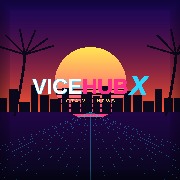
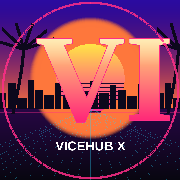
Identité de marque GTA VI : chiffre VI glossy, flamant néon, profil rond + story 9:16
Logo et réseaux repensés « plus GTA VI » :
- Chiffre romain VI en dégradé glossy jaune→magenta (signature GTA VI)
- Wordmark VICEHUB X en dégradé néon, flamant rose, soleil rétro, grille, palmiers
- Nouveaux assets : logo-square (post), logo-profile (avatar rond IG/TikTok),
  fb-cover (bannière Facebook), story-9x16 (TikTok/Stories), favicon VI (SVG+PNG)
- gen-brand.php : dégradé de texte (gloss), flamant, halo, masque circulaire

Claude-Session: https://claude.ai/code/session_01AwoqAARGkV3nyscAH2TsPk

diff --git a/scripts/gen-brand.php b/scripts/gen-brand.php
@@ -1,7 +1,8 @@
 <?php
 /**
- * ViceHub X — Générateur d'identité de marque (logo, réseaux, favicon) via GD.
- * Produit des PNG nets, sans dépendance réseau, dans public/assets/img/.
+ * ViceHub X — Identité de marque « GTA VI » (logo, réseaux, favicon) via GD.
+ * Style : clé visuelle Vice City — soleil rétro, grille néon, palmiers, flamant,
+ * chiffre romain VI glossy et wordmark en dégradé rose→jaune (signature GTA VI).
  *   Usage : php scripts/gen-brand.php
  */
 $ROOT = dirname(__DIR__);
@@ -11,197 +12,203 @@ $BRAND = $IMG . '/brand';
 
 $FONT  = '/usr/share/fonts/truetype/liberation/LiberationSans-Bold.ttf';
 $FONTI = '/usr/share/fonts/truetype/liberation/LiberationSans-BoldItalic.ttf';
-if (!is_file($FONT)) { $FONT = '/usr/share/fonts/truetype/dejavu/DejaVuSans-Bold.ttf'; }
+if (!is_file($FONT))  { $FONT  = '/usr/share/fonts/truetype/dejavu/DejaVuSans-Bold.ttf'; }
 if (!is_file($FONTI)) { $FONTI = $FONT; }
 
-function col($im, $r, $g, $b, $a = 0) { return imagecolorallocatealpha($im, $r, $g, $b, $a); }
+function col($im,$r,$g,$b,$a=0){ return imagecolorallocatealpha($im,(int)$r,(int)$g,(int)$b,(int)$a); }
+function clampi($v,$lo,$hi){ return max($lo,min($hi,$v)); }
 
-/** Dégradé vertical du ciel + sol. */
-function sky($im, $w, $h, $horizon) {
-    for ($y = 0; $y < $horizon; $y++) {
-        $t = $y / max(1, $horizon);
-        $r = (int)(26 + (255 - 26) * pow($t, 1.5));
-        $g = (int)(8 + (90 - 8) * pow($t, 2.2));
-        $b = (int)(48 + (90 - 48) * (1 - $t));
-        imagefilledrectangle($im, 0, $y, $w, $y, col($im, $r, min(255,$g), $b));
+/* Ciel GTA VI : violet profond -> magenta -> orange. */
+function sky($im,$w,$h,$horizon){
+    for($y=0;$y<$horizon;$y++){
+        $t=$y/max(1,$horizon);
+        $r=43+(255-43)*pow($t,1.6); $g=11+(120-11)*pow($t,2.3); $b=63+(70-63)*(1-$t)+ (90)*(1-$t);
+        imagefilledrectangle($im,0,$y,$w,$y,col($im,clampi($r,0,255),clampi($g,0,255),clampi($b,0,255)));
     }
-    for ($y = $horizon; $y < $h; $y++) {
-        $t = ($y - $horizon) / max(1, $h - $horizon);
-        $r = (int)(26 * (1 - $t) + 7);
-        $b = (int)(46 * (1 - $t) + 15);
-        imagefilledrectangle($im, 0, $y, $w, $y, col($im, $r, 6, $b + 10));
+    for($y=$horizon;$y<$h;$y++){
+        $t=($y-$horizon)/max(1,$h-$horizon);
+        imagefilledrectangle($im,0,$y,$w,$y,col($im,(int)(30*(1-$t)+8),6,(int)(52*(1-$t)+16)));
     }
 }
-
-/** Soleil rétro avec bandes. */
-function retroSun($im, $cx, $cy, $R) {
-    for ($y = -$R; $y <= $R; $y++) {
-        $t = ($y + $R) / (2 * $R);
-        $r = (int)(255);
-        $g = (int)(230 * (1 - $t) + 50 * $t);
-        $b = (int)(80 * (1 - $t) + 136 * $t);
-        $half = (int) sqrt(max(0, $R * $R - $y * $y));
-        imagefilledrectangle($im, $cx - $half, $cy + $y, $cx + $half, $cy + $y, col($im, $r, $g, $b));
+/* Soleil rétro à bandes (jaune -> magenta). */
+function retroSun($im,$cx,$cy,$R){
+    for($y=-$R;$y<=$R;$y++){
+        $t=($y+$R)/(2*$R);
+        $r=255; $g=230*(1-$t)+40*$t; $b=70*(1-$t)+150*$t;
+        $half=(int)sqrt(max(0,$R*$R-$y*$y));
+        imagefilledrectangle($im,$cx-$half,$cy+$y,$cx+$half,$cy+$y,col($im,$r,$g,$b));
     }
-    // bandes sombres dans la moitié basse
-    for ($i = 0; $i < 7; $i++) {
-        $by = $cy + (int)($R * 0.16) + $i * (int)($R * 0.13);
-        $half = (int) sqrt(max(0, $R * $R - ($by - $cy) * ($by - $cy)));
-        imagefilledrectangle($im, $cx - $half, $by, $cx + $half, $by + max(2, (int)($R*0.03) + $i), col($im, 20, 8, 36));
+    for($i=0;$i<8;$i++){
+        $by=$cy+(int)($R*0.14)+$i*(int)($R*0.12);
+        $half=(int)sqrt(max(0,$R*$R-($by-$cy)*($by-$cy)));
+        imagefilledrectangle($im,$cx-$half,$by,$cx+$half,$by+max(2,(int)($R*0.025)+$i),col($im,28,8,46));
     }
 }
-
-/** Grille néon en perspective. */
-function neonGrid($im, $w, $h, $horizon, $pink, $cyan) {
-    for ($i = -12; $i <= 12; $i++) {
-        $x = $w / 2 + $i * ($w / 12);
-        imageline($im, (int)($w/2), $horizon, (int)$x, $h, $cyan);
-    }
-    $n = 10;
-    for ($i = 1; $i <= $n; $i++) {
-        $p = $i / $n;
-        $y = $horizon + (int)(pow($p, 2.2) * ($h - $horizon));
-        imageline($im, 0, $y, $w, $y, $pink);
-    }
+function neonGrid($im,$w,$h,$horizon,$pink,$cyan){
+    for($i=-14;$i<=14;$i++){ $x=$w/2+$i*($w/14); imageline($im,(int)($w/2),$horizon,(int)$x,$h,$cyan); }
+    for($i=1;$i<=11;$i++){ $p=$i/11; $y=$horizon+(int)(pow($p,2.2)*($h-$horizon)); imageline($im,0,$y,$w,$y,$pink); }
+}
+function skyline($im,$w,$h,$baseY,$dark){
+    $x=0; $seed=[0.5,0.85,0.35,0.95,0.6,0.45,0.85,0.4,0.7,0.55,0.92,0.5,0.78,0.6,0.4,0.82,0.5]; $i=0;
+    while($x<$w){ $bw=(int)($w*(0.035+($i%3)*0.011)); $bh=(int)($h*0.17*$seed[$i%count($seed)]);
+        imagefilledrectangle($im,$x,$baseY-$bh,$x+$bw-2,$baseY,$dark); $x+=$bw+(int)($w*0.006); $i++; }
+}
+function palm($im,$x,$y,$s,$dark){
+    $pts=[]; for($t=0;$t<=1;$t+=0.1){ $pts[]=[$x+(int)(sin($t*1.2)*$s*0.18),$y-(int)($t*$s)]; }
+    imagesetthickness($im,max(2,(int)($s*0.05)));
+    for($k=0;$k<count($pts)-1;$k++) imageline($im,$pts[$k][0],$pts[$k][1],$pts[$k+1][0],$pts[$k+1][1],$dark);
+    $top=end($pts);
+    foreach([200,228,256,286,316,338] as $a){ $rad=deg2rad($a);
+        $ex=$top[0]+(int)(cos($rad)*$s*0.5); $ey=$top[1]+(int)(sin($rad)*$s*0.42);
+        imageline($im,$top[0],$top[1],(int)$ex,(int)$ey,$dark); }
+    imagesetthickness($im,1);
+}
+/* Flamant néon stylisé (silhouette rose). */
+function flamingo($im,$cx,$cy,$s,$c){
+    imagesetthickness($im,max(3,(int)($s*0.06)));
+    // pattes
+    imageline($im,$cx-(int)($s*0.05),$cy+(int)($s*0.3),$cx-(int)($s*0.12),$cy+(int)($s*0.95),$c);
+    imageline($im,$cx+(int)($s*0.05),$cy+(int)($s*0.3),$cx+(int)($s*0.10),$cy+(int)($s*0.95),$c);
+    // corps
+    imagefilledellipse($im,$cx,$cy+(int)($s*0.18),(int)($s*0.5),(int)($s*0.32),$c);
+    // cou en S
+    $neck=[[$cx-(int)($s*0.08),$cy+(int)($s*0.05)],[$cx-(int)($s*0.22),$cy-(int)($s*0.18)],
+           [$cx-(int)($s*0.05),$cy-(int)($s*0.42)],[$cx+(int)($s*0.16),$cy-(int)($s*0.52)]];
+    for($k=0;$k<count($neck)-1;$k++) imageline($im,$neck[$k][0],$neck[$k][1],$neck[$k+1][0],$neck[$k+1][1],$c);
+    // tête + bec
+    imagefilledellipse($im,$cx+(int)($s*0.18),$cy-(int)($s*0.54),(int)($s*0.14),(int)($s*0.12),$c);
+    imagefilledpolygon($im,[$cx+(int)($s*0.26),$cy-(int)($s*0.56),$cx+(int)($s*0.42),$cy-(int)($s*0.46),$cx+(int)($s*0.27),$cy-(int)($s*0.48)],$c);
+    imagesetthickness($im,1);
+}
+/* Halo lumineux radial. */
+function glow($im,$cx,$cy,$R,$r,$g,$b){
+    for($i=$R;$i>0;$i-=2){ $a=clampi(118-(int)(($R-$i)*0.9),60,126);
+        imagefilledellipse($im,$cx,$cy,$i*2,$i*2,col($im,$r,$g,$b,$a)); }
 }
 
-/** Skyline silhouette. */
-function skyline($im, $w, $h, $baseY, $dark) {
-    $x = 0;
-    $seedH = [0.5,0.8,0.35,0.95,0.6,0.45,0.85,0.4,0.7,0.55,0.9,0.5,0.75,0.6,0.4,0.8,0.5];
-    $i = 0;
-    while ($x < $w) {
-        $bw = (int)($w * (0.04 + ($i % 3) * 0.012));
-        $bh = (int)($h * 0.16 * $seedH[$i % count($seedH)]);
-        imagefilledrectangle($im, $x, $baseY - $bh, $x + $bw - 2, $baseY, $dark);
-        // quelques fenêtres
-        $x += $bw + (int)($w * 0.006);
-        $i++;
-    }
-}
-
-/** Palmier silhouette simple. */
-function palm($im, $x, $y, $s, $dark) {
-    // tronc courbe
-    $pts = [];
-    for ($t = 0; $t <= 1; $t += 0.1) {
-        $px = $x + (int)(sin($t * 1.2) * $s * 0.18);
-        $py = $y - (int)($t * $s);
-        $pts[] = [$px, $py];
-    }
-    for ($k = 0; $k < count($pts) - 1; $k++) {
-        imagesetthickness($im, max(2, (int)($s * 0.045)));
-        imageline($im, $pts[$k][0], $pts[$k][1], $pts[$k+1][0], $pts[$k+1][1], $dark);
-    }
-    imagesetthickness($im, 1);
-    $top = end($pts);
-    // frondes
-    $angles = [200, 230, 260, 290, 320, 340];
-    foreach ($angles as $a) {
-        $rad = deg2rad($a);
-        $ex = $top[0] + (int)(cos($rad) * $s * 0.5);
-        $ey = $top[1] + (int)(sin($rad) * $s * 0.42);
-        $mx = ($top[0] + $ex) / 2 + (int)(cos($rad + 1.57) * $s * 0.08);
-        $my = ($top[1] + $ey) / 2 + (int)(sin($rad + 1.57) * $s * 0.08);
-        $poly = [$top[0], $top[1], (int)$mx, (int)$my, $ex, $ey];
-        imagesetthickness($im, max(2, (int)($s * 0.03)));
-        imageline($im, $top[0], $top[1], (int)$ex, (int)$ey, $dark);
-    }
-    imagesetthickness($im, 1);
-}
-
-/** Texte TTF avec halo néon. */
-function glowText($im, $font, $size, $x, $y, $text, $rgb, $glow) {
-    for ($i = 0; $i < 6; $i++) {
-        $a = 78 - $i * 8;
-        $g = imagecolorallocatealpha($im, $glow[0], $glow[1], $glow[2], max(40, $a));
-        foreach ([[-2,0],[2,0],[0,-2],[0,2],[2,2],[-2,-2]] as $o) {
-            imagettftext($im, $size, 0, $x + $o[0], $y + $o[1], $g, $font, $text);
+/* Texte rempli d'un dégradé vertical (gloss) + halo néon — signature GTA VI. */
+function gradientText($im,$font,$size,$x,$y,$text,$top,$bot,$glow){
+    $bbox=imagettfbbox($size,0,$font,$text);
+    $tw=abs($bbox[2]-$bbox[0]); $th=abs($bbox[7]-$bbox[1]); $pad=(int)($size*0.5);
+    $w=$tw+$pad*2; $h=$th+$pad*2;
+    // halo sur l'image principale
+    for($i=0;$i<6;$i++){ $g=col($im,$glow[0],$glow[1],$glow[2],clampi(86-$i*7,44,120));
+        foreach([[-3,0],[3,0],[0,-3],[0,3],[3,3],[-3,-3],[4,0],[0,4]] as $o)
+            imagettftext($im,$size,0,$x+$o[0],$y+$o[1],$g,$font,$text); }
+    // calque texte blanc (masque)
+    $layer=imagecreatetruecolor($w,$h); imagesavealpha($layer,true); imagealphablending($layer,false);
+    imagefilledrectangle($layer,0,0,$w,$h,col($layer,0,0,0,127)); imagealphablending($layer,true);
+    $baseY=$pad+$th;
+    imagettftext($layer,$size,0,$pad,$baseY,col($layer,255,255,255),$font,$text);
+    imagealphablending($im,true);
+    for($yy=0;$yy<$h;$yy++){
+        $t=clampi(($yy-$pad)/max(1,$th),0,1);
+        // gloss : éclaircit le tiers supérieur
+        $gl=$t<0.34?(1-$t/0.34)*0.5:0;
+        $r=$top[0]*(1-$t)+$bot[0]*$t; $g=$top[1]*(1-$t)+$bot[1]*$t; $b=$top[2]*(1-$t)+$bot[2]*$t;
+        $r=clampi($r+(255-$r)*$gl,0,255); $g=clampi($g+(255-$g)*$gl,0,255); $b=clampi($b+(255-$b)*$gl,0,255);
+        $dy=$y-$baseY+$yy; if($dy<0||$dy>=imagesy($im)) continue;
+        for($xx=0;$xx<$w;$xx++){
+            $a=(imagecolorat($layer,$xx,$yy)>>24)&0x7F;
+            if($a>=120) continue;
+            $dx=$x+$xx-$pad; if($dx<0||$dx>=imagesx($im)) continue;
+            $al=(127-$a)/127;
+            $ex=imagecolorat($im,$dx,$dy); $er=($ex>>16)&255; $eg=($ex>>8)&255; $eb=$ex&255;
+            imagesetpixel($im,$dx,$dy,col($im,$er*(1-$al)+$r*$al,$eg*(1-$al)+$g*$al,$eb*(1-$al)+$b*$al));
         }
     }
-    $c = imagecolorallocate($im, $rgb[0], $rgb[1], $rgb[2]);
-    imagettftext($im, $size, 0, $x, $y, $c, $font, $text);
-    return imagettfbbox($size, 0, $font, $text);
+    imagedestroy($layer);
+    return $tw;
 }
-function textW($size, $font, $text) { $b = imagettfbbox($size, 0, $font, $text); return abs($b[2] - $b[0]); }
+function textW($size,$font,$text){ $b=imagettfbbox($size,0,$font,$text); return abs($b[2]-$b[0]); }
 
-/** Construit la scène Vice City (sans texte). */
-function buildScene($w, $h) {
-    $im = imagecreatetruecolor($w, $h);
-    imagealphablending($im, true);
-    $horizon = (int)($h * 0.62);
-    sky($im, $w, $h, $horizon);
-    $pink = imagecolorallocatealpha($im, 255, 46, 136, 70);
-    $cyan = imagecolorallocatealpha($im, 43, 214, 255, 78);
-    $dark = imagecolorallocate($im, 12, 8, 28);
-    retroSun($im, (int)($w/2), (int)($horizon * 0.74), (int)(min($w,$h) * 0.20));
-    neonGrid($im, $w, $h, $horizon, $pink, $cyan);
-    skyline($im, $w, $h, $horizon + 1, $dark);
-    palm($im, (int)($w*0.08), $horizon + (int)($h*0.02), (int)($h*0.34), $dark);
-    palm($im, (int)($w*0.92), $horizon + (int)($h*0.02), (int)($h*0.34), $dark);
-    // vignette
-    for ($i = 0; $i < 60; $i++) {
-        $a = 90 - $i;
-        if ($a < 0) break;
-        $cc = imagecolorallocatealpha($im, 0, 0, 8, 127 - (int)($a/2));
-        imagerectangle($im, $i, $i, $w - $i - 1, $h - $i - 1, $cc);
-    }
-    return $im;
+/* Construit la scène Vice City (sans texte). */
+function scene($w,$h){
+    $im=imagecreatetruecolor($w,$h); imagealphablending($im,true);
+    $horizon=(int)($h*0.60);
+    sky($im,$w,$h,$horizon);
+    $pink=col($im,255,46,136,74); $cyan=col($im,43,214,255,80); $dark=col($im,12,8,28);
+    // halo soleil
+    glow($im,(int)($w/2),(int)($horizon*0.72),(int)(min($w,$h)*0.34),255,120,60);
+    retroSun($im,(int)($w/2),(int)($horizon*0.72),(int)(min($w,$h)*0.19));
+    neonGrid($im,$w,$h,$horizon,$pink,$cyan);
+    skyline($im,$w,$h,$horizon+1,$dark);
+    palm($im,(int)($w*0.07),$horizon+(int)($h*0.03),(int)($h*0.36),$dark);
+    palm($im,(int)($w*0.93),$horizon+(int)($h*0.03),(int)($h*0.36),$dark);
+    return [$im,$horizon];
+}
+function vignette($im,$w,$h){
+    for($i=0;$i<70;$i++){ $a=110-$i; if($a<0)break; imagerectangle($im,$i,$i,$w-$i-1,$h-$i-1,col($im,0,0,8,clampi(127-(int)($a/2.2),60,127))); }
 }
 
-/** Dessine le wordmark VICEHUB X centré sur l'image. */
-function wordmark($im, $w, $cx, $cy, $font, $fonti, $size, $tagline = true) {
-    // segments : VICE (blanc) HUB (rose)
-    $wVice = textW($size, $font, 'VICE');
-    $wHub  = textW($size, $font, 'HUB');
-    $wX    = textW($size * 1.25, $fonti, 'X');
-    $gap   = (int)($size * 0.18);
-    $total = $wVice + $wHub + $gap + $wX;
-    $x = $cx - (int)($total / 2);
-    $base = $cy;
-    glowText($im, $font, $size, $x, $base, 'VICE', [255,255,255], [43,214,255]);
-    glowText($im, $font, $size, $x + $wVice, $base, 'HUB', [255,46,136], [255,46,136]);
-    glowText($im, $fonti, $size * 1.25, $x + $wVice + $wHub + $gap, $base + (int)($size*0.06), 'X', [43,214,255], [43,214,255]);
-    if ($tagline) {
-        $tag = 'G T A   V I   ·   N E W S';
-        $ts = max(10, (int)($size * 0.22));
-        $tw = textW($ts, $font, $tag);
-        $tc = imagecolorallocate($im, 255, 209, 102);
-        imagettftext($im, $ts, 0, $cx - (int)($tw/2), $base + (int)($size*0.55), $tc, $font, $tag);
+/* Dégradé signature GTA VI (jaune chaud -> rose magenta). */
+$GT=[255,214,77]; $GB=[255,40,120];
+
+/* Wordmark VICEHUB X + chiffre VI glossy + tagline. */
+function wordmark($im,$w,$cy,$font,$fonti,$size,$GT,$GB,$tagline=true){
+    $cx=(int)($w/2);
+    $wWord=textW($size,$font,'VICEHUB'); $wX=textW($size*1.18,$fonti,'X'); $gap=(int)($size*0.16);
+    $total=$wWord+$gap+$wX; $x=$cx-(int)($total/2);
+    gradientText($im,$font,$size,$x,$cy,'VICEHUB',$GT,$GB,[255,46,136]);
+    gradientText($im,$fonti,$size*1.18,$x+$wWord+$gap,$cy+(int)($size*0.05),'X',[120,230,255],[43,140,255],[43,214,255]);
+    if($tagline){
+        $tag='G T A   V I   ·   F A N   H U B'; $ts=max(11,(int)($size*0.2)); $tw=textW($ts,$font,$tag);
+        imagettftext($im,$ts,0,$cx-(int)($tw/2),$cy+(int)($size*0.5),col($im,255,209,102),$font,$tag);
     }
 }
 
-/* ---- Asset 1 : carré réseaux (Instagram / Facebook profil) 1080² ---- */
-$sq = buildScene(1080, 1080);
-wordmark($sq, 1080, 540, 560, $FONT, $FONTI, 96, true);
-imagepng($sq, "$BRAND/logo-square.png");
-// version 512 (PWA / favicon large) et 192
-$i512 = imagescale($sq, 512, 512); imagepng($i512, "$IMG/icon-512.png");
-$i192 = imagescale($sq, 192, 192); imagepng($i192, "$IMG/icon-192.png");
-$i180 = imagescale($sq, 180, 180); imagepng($i180, "$IMG/apple-touch-icon.png");
+/* ---- Asset 1 : carré post Instagram/TikTok 1080² ---- */
+[$sq,$hz]=scene(1080,1080);
+// gros VI glossy en filigrane derrière le wordmark
+gradientText($sq,'/usr/share/fonts/truetype/liberation/LiberationSerif-Bold.ttf',360,540-300,560,'VI',[255,225,120],[181,60,255],[181,60,255]);
+flamingo($sq,150,720,150,col($sq,255,60,150));
+wordmark($sq,1080,640,$GLOBALS['FONT'],$GLOBALS['FONTI'],92,$GT,$GB,true);
+vignette($sq,1080,1080);
+imagepng($sq,"$BRAND/logo-square.png");
 
-/* ---- Asset 2 : bannière Facebook (1640 x 624) ---- */
-$cov = buildScene(1640, 624);
-wordmark($cov, 1640, 820, 330, $FONT, $FONTI, 104, true);
-imagepng($cov, "$BRAND/fb-cover.png");
-
-/* ---- Asset 3 : wordmark large sur fond sombre (1600 x 500) ---- */
-$wide = buildScene(1600, 500);
-wordmark($wide, 1600, 800, 280, $FONT, $FONTI, 110, true);
-imagepng($wide, "$BRAND/logo-wide.png");
-
-/* ---- Asset 4 : emblème favicon (carré 256, monogramme) ---- */
-$fav = imagecreatetruecolor(256, 256);
-imagealphablending($fav, true);
-sky($fav, 256, 256, 168);
-retroSun($fav, 128, 120, 70);
-skyline($fav, 256, 256, 169, imagecolorallocate($fav, 12, 8, 28));
-// gros X néon
-glowText($fav, $FONTI, 130, 78, 200, 'X', [255,255,255], [255,46,136]);
-imagepng($fav, "$IMG/favicon-256.png");
-$f32 = imagescale($fav, 32, 32); imagepng($f32, "$IMG/favicon-32.png");
-
-echo "OK — assets de marque générés dans public/assets/img/ et /brand :\n";
-foreach (["$BRAND/logo-square.png","$BRAND/fb-cover.png","$BRAND/logo-wide.png","$IMG/icon-512.png","$IMG/icon-192.png","$IMG/apple-touch-icon.png","$IMG/favicon-256.png","$IMG/favicon-32.png"] as $f) {
-    echo "  " . str_replace($GLOBALS['ROOT'] ?? dirname(__DIR__), '', $f) . " (" . (is_file($f) ? filesize($f) . ' o' : 'ERR') . ")\n";
+/* ---- Asset 2 : photo de profil ronde IG/TikTok (emblème VI) ---- */
+[$pf,]=scene(1080,1080);
+gradientText($pf,'/usr/share/fonts/truetype/liberation/LiberationSerif-Bold.ttf',560,540-330,720,'VI',[255,225,120],[255,40,120],[255,46,136]);
+$tw=textW(58,$GLOBALS['FONT'],'VICEHUB X');
+imagettftext($pf,58,0,540-(int)($tw/2),900,col($pf,255,255,255),$GLOBALS['FONT'],'VICEHUB X');
+// masque circulaire + anneau néon
+$mask=imagecreatetruecolor(1080,1080); imagesavealpha($mask,true); imagealphablending($mask,false);
+for($y=0;$y<1080;$y++) for($x=0;$x<1080;$x++){
+    $d=sqrt(($x-540)**2+($y-540)**2);
+    if($d>530){ imagesetpixel($mask,$x,$y,imagecolorat($pf,$x,$y)); imagesetpixel($pf,$x,$y,col($pf,0,0,0,127)); }
 }
+imagedestroy($mask);
+imagealphablending($pf,true);
+for($r=520;$r<=532;$r++) imageellipse($pf,540,540,$r*2,$r*2,col($pf,255,46,136,20));
+imagepng($pf,"$BRAND/logo-profile.png");
+imagepng(imagescale($pf,512,512),"$IMG/icon-512.png");
+imagepng(imagescale($pf,192,192),"$IMG/icon-192.png");
+imagepng(imagescale($pf,180,180),"$IMG/apple-touch-icon.png");
+
+/* ---- Asset 3 : bannière Facebook 1640 x 624 ---- */
+$SERIF='/usr/share/fonts/truetype/liberation/LiberationSerif-Bold.ttf';
+[$cov,]=scene(1640,624);
+$viW=textW(270,$SERIF,'VI');
+gradientText($cov,$SERIF,270,(int)(820-$viW/2),360,'VI',[255,225,120],[181,60,255],[181,60,255]);
+flamingo($cov,200,440,165,col($cov,255,60,150));
+wordmark($cov,1640,360,$GLOBALS['FONT'],$GLOBALS['FONTI'],104,$GT,$GB,true);
+vignette($cov,1640,624);
+imagepng($cov,"$BRAND/fb-cover.png");
+
+/* ---- Asset 4 : story / TikTok 9:16 (1080 x 1920) ---- */
+[$st,$sh]=scene(1080,1920);
+gradientText($st,'/usr/share/fonts/truetype/liberation/LiberationSerif-Bold.ttf',460,540-280,1180,'VI',[255,225,120],[181,60,255],[181,60,255]);
+flamingo($st,200,1320,200,col($st,255,60,150));
+wordmark($st,1080,1000,$GLOBALS['FONT'],$GLOBALS['FONTI'],96,$GT,$GB,true);
+vignette($st,1080,1920);
+imagepng($st,"$BRAND/story-9x16.png");
+
+/* ---- Asset 5 : favicon (emblème VI carré) ---- */
+[$fav,]=scene(256,256);
+gradientText($fav,'/usr/share/fonts/truetype/liberation/LiberationSerif-Bold.ttf',150,128-78,185,'VI',[255,225,120],[255,40,120],[255,46,136]);
+imagepng($fav,"$IMG/favicon-256.png");
+imagepng(imagescale($fav,32,32),"$IMG/favicon-32.png");
+
+echo "OK — identité GTA VI générée :\n";
+foreach(["$BRAND/logo-square.png","$BRAND/logo-profile.png","$BRAND/fb-cover.png","$BRAND/story-9x16.png","$IMG/icon-512.png","$IMG/favicon-256.png"] as $f)
+    echo "  ".str_replace($ROOT,'',$f)." (".(is_file($f)?filesize($f).' o':'ERR').")\n";
